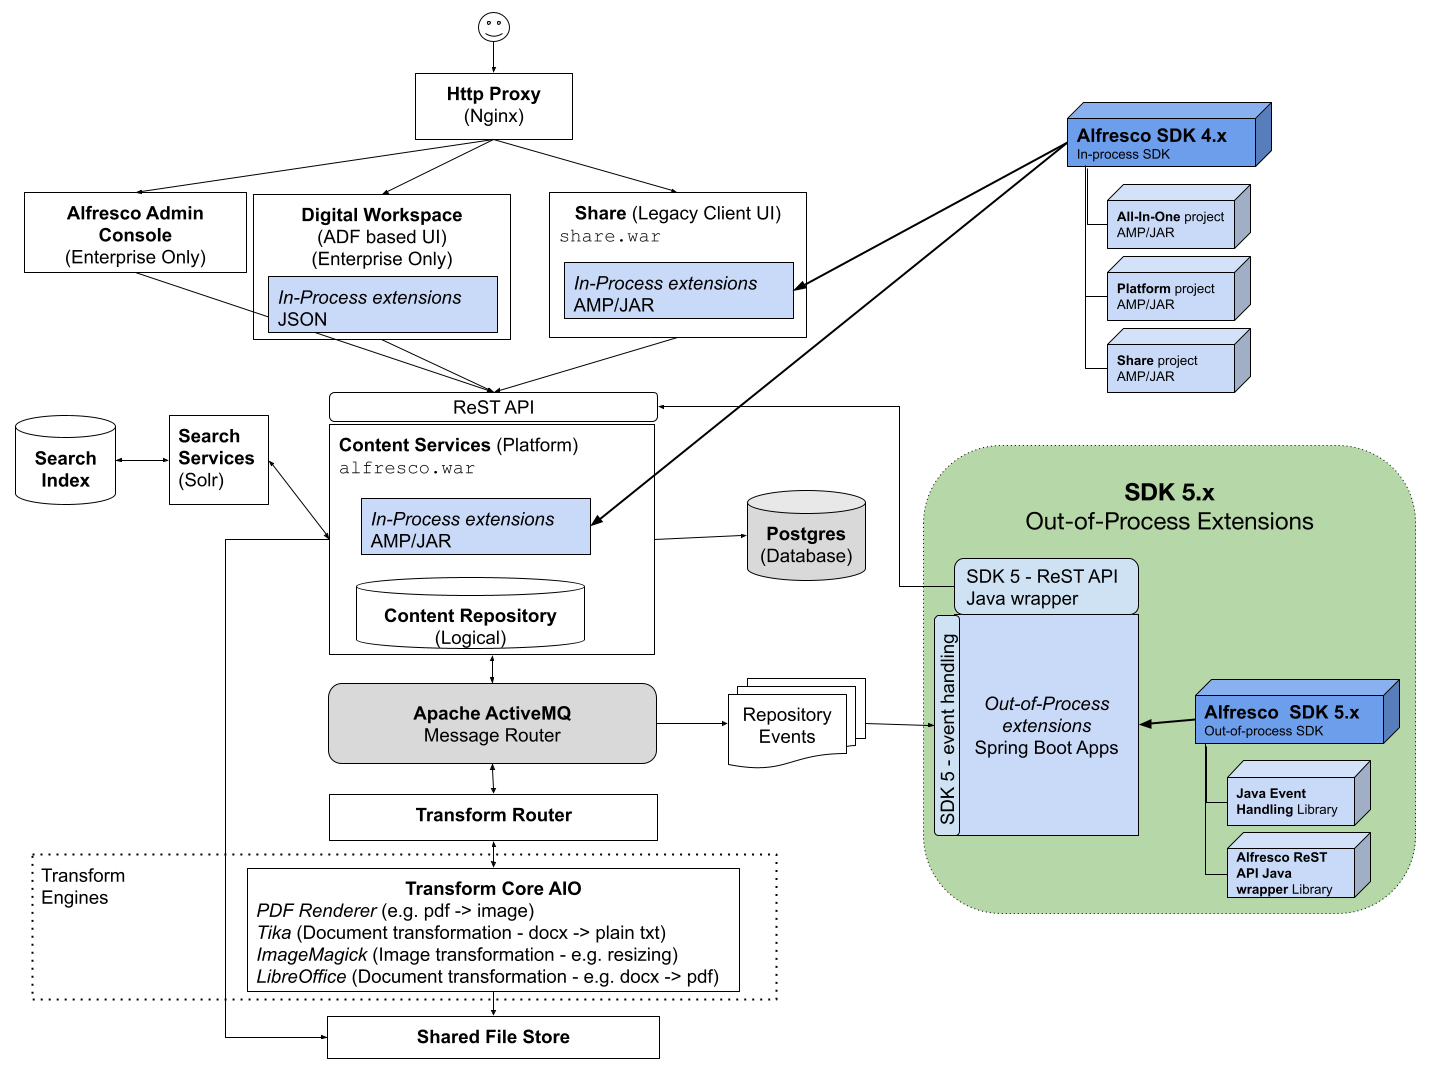
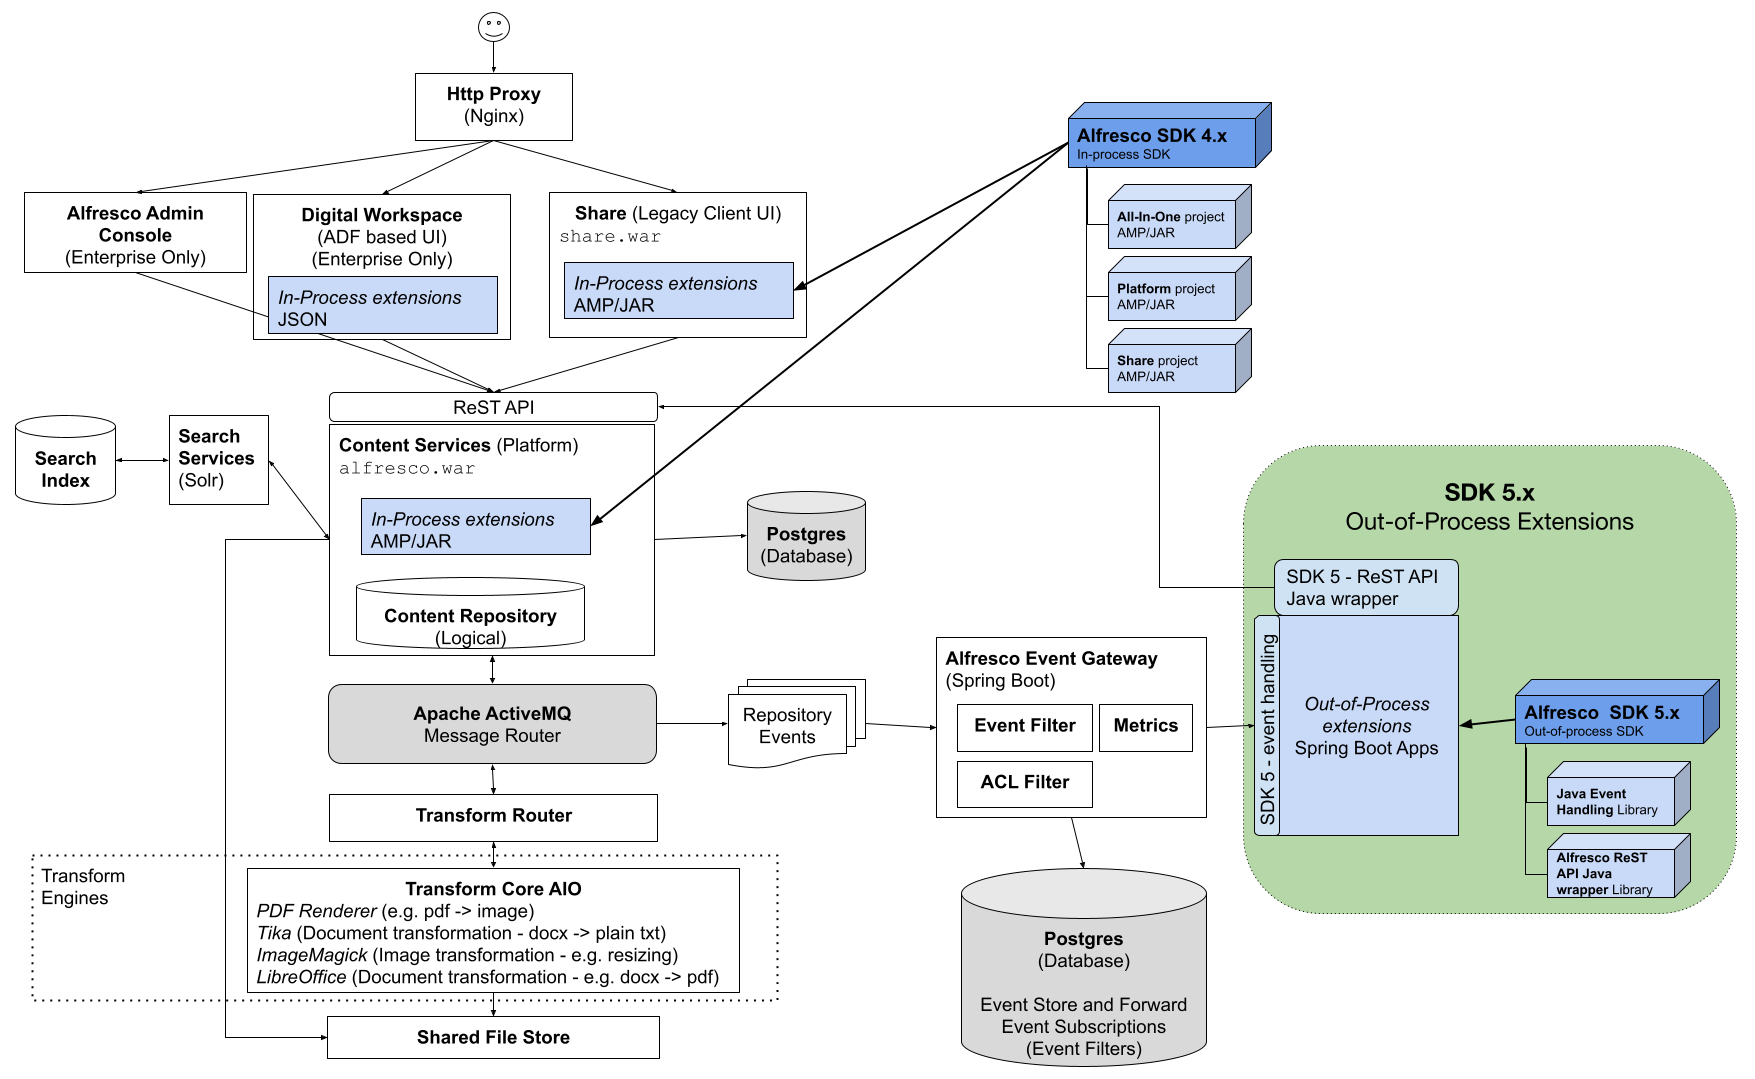
SDK 5.1 picture update, moved subscription api code to sdk guide etc

diff --git a/content-services/latest/develop/oop-ext-points/event-gateway.md b/content-services/latest/develop/oop-ext-points/event-gateway.md
@@ -2,14 +2,48 @@
 title: Event Gateway
 ---
 
-The Event Gateway is a brand new Alfresco Component, introduced to improve the security of the [event mechanism]({% link content-services/latest/develop/oop-ext-points/events.md %}) 
-and the [ReST API]({% link content-services/latest/develop/rest-api-guide/index.md %}). The Event Gateway relies on 
-existing components that produces internal events flagged for external consumption. Those events are then consumed by 
-the Event Gateway Service and routed to various destinations such as the queryable Event Store, Global Public Event Topic, 
-subscription triggers, and the Event Archive.
+The Event Gateway is a brand new Alfresco Component, introduced to improve the security of the [event mechanism]({% link content-services/latest/develop/oop-ext-points/events.md %}). 
+The Event Gateway relies on existing components that produces internal events flagged for external consumption. Those 
+events are then consumed by the Event Gateway Service and routed to various destinations such as the queryable Event Store, 
+Global Public Event Topic, subscription triggers, and the Event Archive.
+
+The following picture illustrates how the Event Gateway fits into the big picture:
+
+![event_gateway_big_picture]({% link content-services/images/event_gateway_big_picture.png %})
+
+The Event Gateway provides the following:
+
+* More security and store and forward of events
+* Choice of what ActiveMQ instance you want to use. Extensions don’t need to use the Repository instance.
+* You can create different subscriptions for different extensions.
+* Events can be filtered, for example: consume only created or updated files of content type `pub:article` or `pub:book`
+* The gateway also provide metrics: Event produced, event consumed, current subscriptions etc.
+* (**Enterprise Edition**) Events are filtered by ACL, so users can only receive events of nodes they have permission to read.
+
+>**Note:** The Event Gateway is an optional component, but very useful if you want more security.
 
 ## Developer deployment
-The Event Gateway can be deployed in a developer environment with Docker Compose:
+The Event Gateway can be deployed in a developer environment with Docker Compose.
+
+Set the property `keycloak.auth-server-url` pointing to your local IP address to avoid security issues validating the 
+domain of the access tokens generated by the Alfresco Identity Service.
+
+Use `export HOST_IP=xxx` for specifying the host ip address before starting docker compose.
+
+The following line will produce the result using `ifconfig`:
+
+```bash 
+export HOST_IP=$(ifconfig | grep -E "([0-9]{1,3}\.){3}[0-9]{1,3}" | grep -v 127.0.0.1 | awk '{ print $2 }' | cut -f2 -d: | head -n1)
+```
+
+The following lines will produce the result using `ip address show`:
+
+```bash 
+export HOST_IP=$(ip address show | grep -E "([0-9]{1,3}\.){3}[0-9]{1,3}" | grep -v 127.0.0.1 | awk '{ print $2 }' | head -n 1 )
+export HOST_IP=$(echo ${HOST_IP%/*})
+```
+
+Here is the `docker-compose.yml` file:
 
 ```text
 # Using version 2 as 3 does not support resource constraint options (cpu_*, mem_* limits) for non swarm mode in Compose
@@ -58,13 +92,6 @@ services:
     image: alfresco/alfresco-content-repository-community:7.1.0
     mem_limit: 1500m
     environment:
-      # use 'export HOST_IP=xxx' for specifying the host ip before starting docker compose
-      # the following line will produce the result using 'ifconfig'
-      # export HOST_IP=$(ifconfig | grep -E "([0-9]{1,3}\.){3}[0-9]{1,3}" | grep -v 127.0.0.1 | awk '{ print $2 }' | cut -f2 -d: | head -n1)
-      # the following 2 lines will produce the result using 'ip address show'
-      # The first line's output is "11.222.11.222/23"
-      # export HOST_IP=$(ip address show | grep -E "([0-9]{1,3}\.){3}[0-9]{1,3}" | grep -v 127.0.0.1 | awk '{ print $2 }' | head -n 1 )
-      # export HOST_IP=$(echo ${HOST_IP%/*})
       HOST_IP: ${HOST_IP}
       JAVA_TOOL_OPTIONS: "
                 -Dencryption.keystore.type=JCEKS
@@ -204,107 +231,4 @@ The Event Gateway provides a ReST API with the following features:
 An out-of-process extension may create a subscription to receive certain types of events in a specific topic of an 
 ActiveMQ broker.
 
-To work with the Gateway ReST API Java Wrapper in your extension project, add this dependency to your project's POM:
-
-```xml
-<dependency>
-    <groupId>org.alfresco</groupId>
-    <artifactId>alfresco-event-gateway-api</artifactId>
-    <version>5.1.0-SNAPSHOT</version>
-</dependency>
-```
-
-### Creating a subscription {#gateway-api-create-sub}
-The following code shows an example of how to create a subscription with a filter that only accepts [events of type]({% link content-services/latest/develop/oop-ext-points/events.md%}#acseventtypes) 
-`org.alfresco.event.node.Created` and `org.alfresco.event.node.Updated`:
-
-```java
-import java.util.Collections;
-import java.util.HashMap;
-import java.util.Map;
-
-import org.alfresco.gateway.handler.SubscriptionsApi;
-import org.alfresco.gateway.model.Filter;
-import org.alfresco.gateway.model.Subscription;
-import org.slf4j.Logger;
-import org.slf4j.LoggerFactory;
-
-public class Sample {
-  private static final Logger LOGGER = LoggerFactory.getLogger(Sample.class);
-  
-  public static void create(String[] args) {
-    @Inject
-    SubscriptionsApi subscriptionsApi;
-
-    Map<String, String> config = new HashMap<>();
-    config.put("broker-id", "my-broker"); // Id of the a broker in alfresco-event-gateway configuration
-    config.put("destination", "topic:sample-topic"); // Name of the topic to which the gateway shall publish the events
-
-    Filter filter = new Filter();
-    filter.setType("event-type");
-    // Comma-separated list of event types accepted by the filter
-    filter.setConfig(Collections.singletonMap("event-types", "org.alfresco.event.node.Created,org.alfresco.event.node.Updated"));
-
-    Subscription subscriptionRequest = new Subscription();
-    subscriptionRequest.setType("jms-activemq");
-    subscriptionRequest.setConfig(config);
-    subscriptionRequest.setFilters(Collections.singletonList(filter));
-
-    Subscription result = subscriptionsApi.createSubscription(subscriptionRequest);
-    LOGGER.info("Created subscription with id: {}", result.getId());
-  }
-}
-```
-
-### Getting a subscription 
-The following code shows an example of how to get a subscription by its id:
-
-```java
-import java.util.HashMap;
-import java.util.Map;
-
-import org.alfresco.gateway.handler.SubscriptionsApi;
-import org.alfresco.gateway.model.Subscription;
-import org.slf4j.Logger;
-import org.slf4j.LoggerFactory;
-
-public class Sample {
-  private static final Logger LOGGER = LoggerFactory.getLogger(Sample.class);
-
-  public static void main(String[] args) {
-    @Inject
-    SubscriptionsApi subscriptionsApi;
-
-    Subscription result = subscriptionsApi.getSubscription("my-subscription-id");
-    LOGGER.info("Retrieved subscription: {}", result);
-  }
-}
-```
-
-### Updating a subscription
-The following code shows an example of how to partially update a subscription:
-
-```java
-import java.util.HashMap;
-import java.util.Map;
-
-import org.alfresco.gateway.handler.SubscriptionsApi;
-import org.alfresco.gateway.model.Subscription;
-import org.slf4j.Logger;
-import org.slf4j.LoggerFactory;
-
-public class Sample {
-  private static final Logger LOGGER = LoggerFactory.getLogger(Sample.class);
-
-  public static void main(String[] args) {
-    @Inject
-    SubscriptionsApi subscriptionsApi;
-
-    Subscription subscription = subscriptionsApi.getSubscription("my-subscription-id");
-    subscription.setStatus(Subscription.StatusEnum.ACTIVE);
-    Subscription result = subscriptionsApi.partiallyUpdateSubscription(subscription);
-
-    LOGGER.info("Updated subscription: {}", result);
-  }
-}
-```
+For more information on how to use the subscription API see the [SDK 5 documentation]({% link content-services/latest/develop/oop-sdk.md %}#using-event-gateway).

diff --git a/content-services/latest/develop/oop-sdk.md b/content-services/latest/develop/oop-sdk.md
@@ -1936,6 +1936,111 @@ to receive certain types of events in a specific topic of an ActiveMQ broker.
 The ActiveMQ broker can be different from the one used by the Alfresco Repository and is configured in both the 
 out-of-process extension and the Event Gateway.
 
+To work with the Gateway ReST API Java Wrapper in your extension project, add this dependency to your project's POM:
+
+```xml
+<dependency>
+    <groupId>org.alfresco</groupId>
+    <artifactId>alfresco-event-gateway-api</artifactId>
+    <version>5.1.0</version>
+</dependency>
+```
+
+### Creating a subscription {#gateway-api-create-sub}
+The following code shows an example of how to create a subscription with a filter that only accepts [events of type]({% link content-services/latest/develop/oop-ext-points/events.md%}#acseventtypes)
+`org.alfresco.event.node.Created` and `org.alfresco.event.node.Updated`:
+
+```java
+import java.util.Collections;
+import java.util.HashMap;
+import java.util.Map;
+
+import org.alfresco.gateway.handler.SubscriptionsApi;
+import org.alfresco.gateway.model.Filter;
+import org.alfresco.gateway.model.Subscription;
+import org.slf4j.Logger;
+import org.slf4j.LoggerFactory;
+
+public class Sample {
+  private static final Logger LOGGER = LoggerFactory.getLogger(Sample.class);
+  
+  public static void create(String[] args) {
+    @Inject
+    SubscriptionsApi subscriptionsApi;
+
+    Map<String, String> config = new HashMap<>();
+    config.put("broker-id", "my-broker"); // Id of the a broker in alfresco-event-gateway configuration
+    config.put("destination", "topic:sample-topic"); // Name of the topic to which the gateway shall publish the events
+
+    Filter filter = new Filter();
+    filter.setType("event-type");
+    // Comma-separated list of event types accepted by the filter
+    filter.setConfig(Collections.singletonMap("event-types", "org.alfresco.event.node.Created,org.alfresco.event.node.Updated"));
+
+    Subscription subscriptionRequest = new Subscription();
+    subscriptionRequest.setType("jms-activemq");
+    subscriptionRequest.setConfig(config);
+    subscriptionRequest.setFilters(Collections.singletonList(filter));
+
+    Subscription result = subscriptionsApi.createSubscription(subscriptionRequest);
+    LOGGER.info("Created subscription with id: {}", result.getId());
+  }
+}
+```
+
+### Getting a subscription
+The following code shows an example of how to get a subscription by its id:
+
+```java
+import java.util.HashMap;
+import java.util.Map;
+
+import org.alfresco.gateway.handler.SubscriptionsApi;
+import org.alfresco.gateway.model.Subscription;
+import org.slf4j.Logger;
+import org.slf4j.LoggerFactory;
+
+public class Sample {
+  private static final Logger LOGGER = LoggerFactory.getLogger(Sample.class);
+
+  public static void main(String[] args) {
+    @Inject
+    SubscriptionsApi subscriptionsApi;
+
+    Subscription result = subscriptionsApi.getSubscription("my-subscription-id");
+    LOGGER.info("Retrieved subscription: {}", result);
+  }
+}
+```
+
+### Updating a subscription
+The following code shows an example of how to partially update a subscription:
+
+```java
+import java.util.HashMap;
+import java.util.Map;
+
+import org.alfresco.gateway.handler.SubscriptionsApi;
+import org.alfresco.gateway.model.Subscription;
+import org.slf4j.Logger;
+import org.slf4j.LoggerFactory;
+
+public class Sample {
+  private static final Logger LOGGER = LoggerFactory.getLogger(Sample.class);
+
+  public static void main(String[] args) {
+    @Inject
+    SubscriptionsApi subscriptionsApi;
+
+    Subscription subscription = subscriptionsApi.getSubscription("my-subscription-id");
+    subscription.setStatus(Subscription.StatusEnum.ACTIVE);
+    Subscription result = subscriptionsApi.partiallyUpdateSubscription(subscription);
+
+    LOGGER.info("Updated subscription: {}", result);
+  }
+}
+```
+
 ### Configuring a specific ActiveMQ broker - Extension Project
 This is done in the `src/main/resources/application.properties` configuration file:
 
